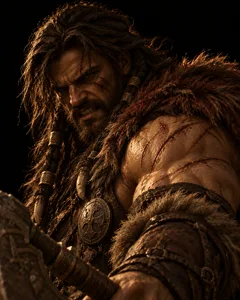
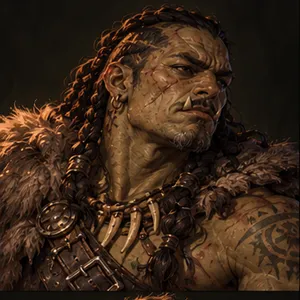
Twelve new class cards, each a different person
The old set shared a face across the twelve, which quietly said a class looks one
way. Each card is now its own person — different face, age and colouring — on the
classic pairings: half-orc barbarian, half-elf bard, human cleric, elf druid,
human fighter, human monk, dragonborn paladin, elf ranger, halfling rogue,
dragonborn sorcerer, tiefling warlock, human wizard. Six women, six men, and where
a race appears twice it appears as one of each, so no race reads as a single look.

The cards are square now. Asking for a 4-wide by 3-tall grid returned a 4:3 canvas
with square cells, and cutting a 4:5 card out of those meant choosing by hand
where each head sat horizontally — twelve guesses to save nothing. A whole cell
beats a well-aimed crop, so the tab's aspect moved rather than the pictures.

Claude-Session: https://claude.ai/code/session_01MHv1tqcgpyySy1GV2gbWz2

diff --git a/packages/web/src/setup.test.ts b/packages/web/src/setup.test.ts
@@ -171,13 +171,13 @@ describe('class art', () => {
   })
 
   it('gives the tabs with art an explicit aspect', () => {
-    // The class busts are portrait while the race pairs and the adventure
-    // scenes are landscape; a shared default would letterbox one of them.
+    // Three different aspects across the tabs — square busts, landscape pairs,
+    // landscape scenes — so a shared default would letterbox something.
     for (const tab of SETUP_TABS) {
       if (tab.imageFor === undefined) continue
       expect(tab.artAspect, `${tab.key} has art but no aspect`).toBeDefined()
     }
-    expect(SETUP_TABS.find((t) => t.key === 'class')!.artAspect).toBe('4 / 5')
+    expect(SETUP_TABS.find((t) => t.key === 'class')!.artAspect).toBe('1 / 1')
     expect(SETUP_TABS.find((t) => t.key === 'race')!.artAspect).toBe('3 / 2')
     expect(SETUP_TABS.find((t) => t.key === 'adventure')!.artAspect).toBe('3 / 2')
     // The still-life deck: difficulty, tone and rules share one treatment.

diff --git a/packages/web/src/setup.ts b/packages/web/src/setup.ts
@@ -88,7 +88,10 @@ export const SETUP_TABS: readonly SetupTab[] = [
     options: classOptions,
     phrase: (value) => `Class: ${value}`,
     imageFor: (label) => `/classes/${label.toLowerCase()}.webp`,
-    artAspect: '4 / 5',
+    // Square, because the sheet they are cut from is: cropping a bust to 4:5
+    // meant guessing where each head sat horizontally, and a whole cell beats a
+    // well-aimed crop.
+    artAspect: '1 / 1',
   },
   {
     key: 'adventure',

diff --git a/CREDITS.md b/CREDITS.md
@@ -37,6 +37,13 @@ with only the subject clause changed per card. Each set was produced in a single
 conversation so that block stayed in context. That block is what gives a set its common
 look — there is no seed to pin, so the consistency comes from the prompt.
 
+The twelve class cards are each a different person — a different face, race and gender —
+so the picker never implies a class belongs to one kind of people. The pairings are the
+classic ones: half-orc barbarian, half-elf bard, human cleric, elf druid, human fighter,
+human monk, dragonborn paladin, elf ranger, halfling rogue, dragonborn sorcerer, tiefling
+warlock, human wizard. Six are women and six are men, and where a race appears twice it
+appears as one of each.
+
 The race cards each show a man and a woman of that people in traditional dress, so the
 card shows a people rather than a person and the picker implies nothing about gender.
 
